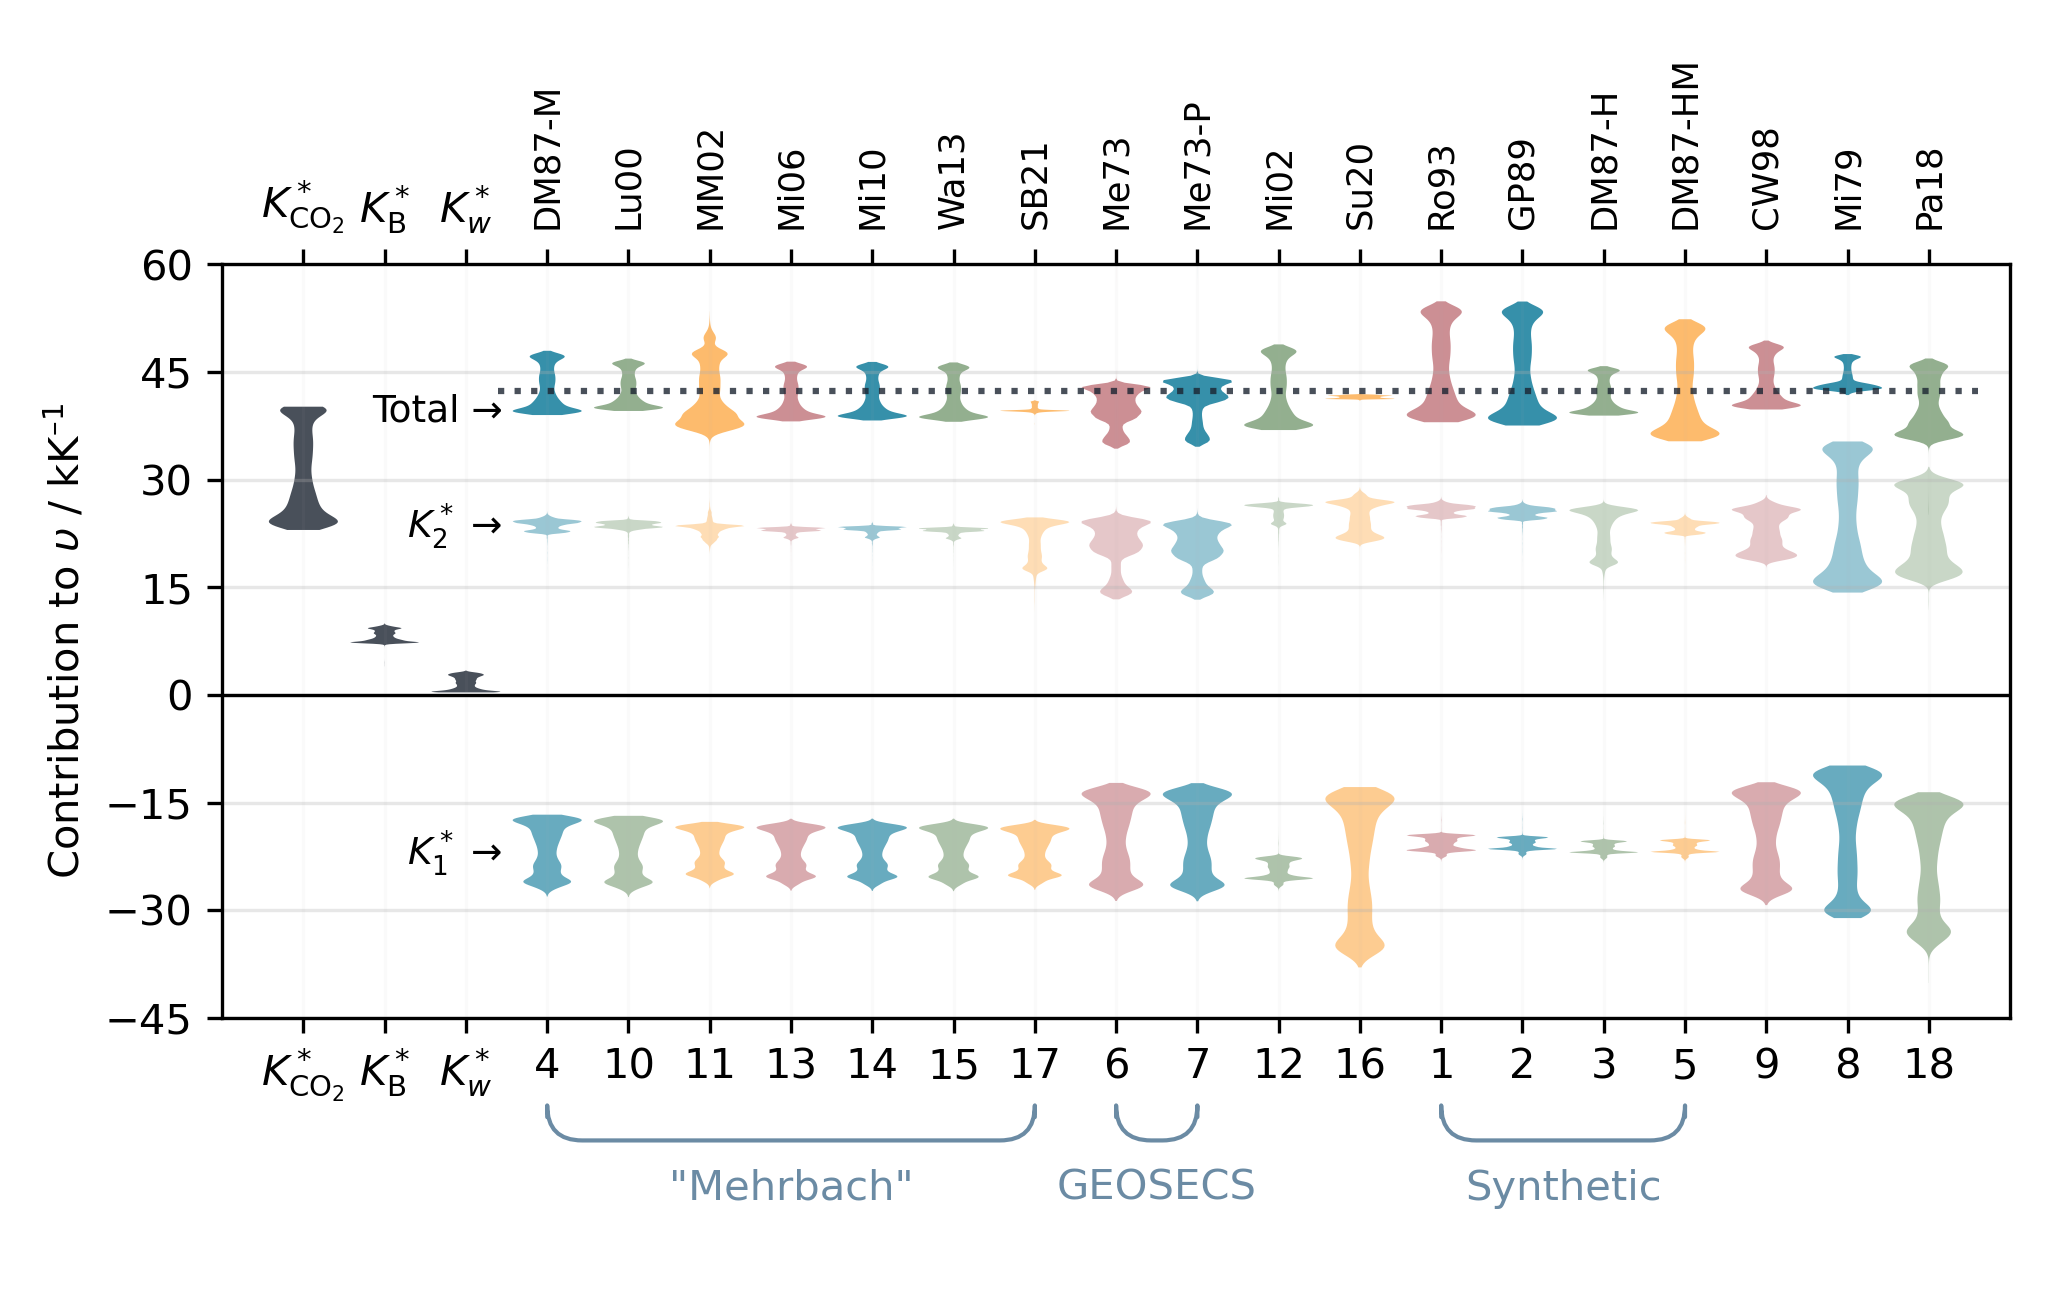
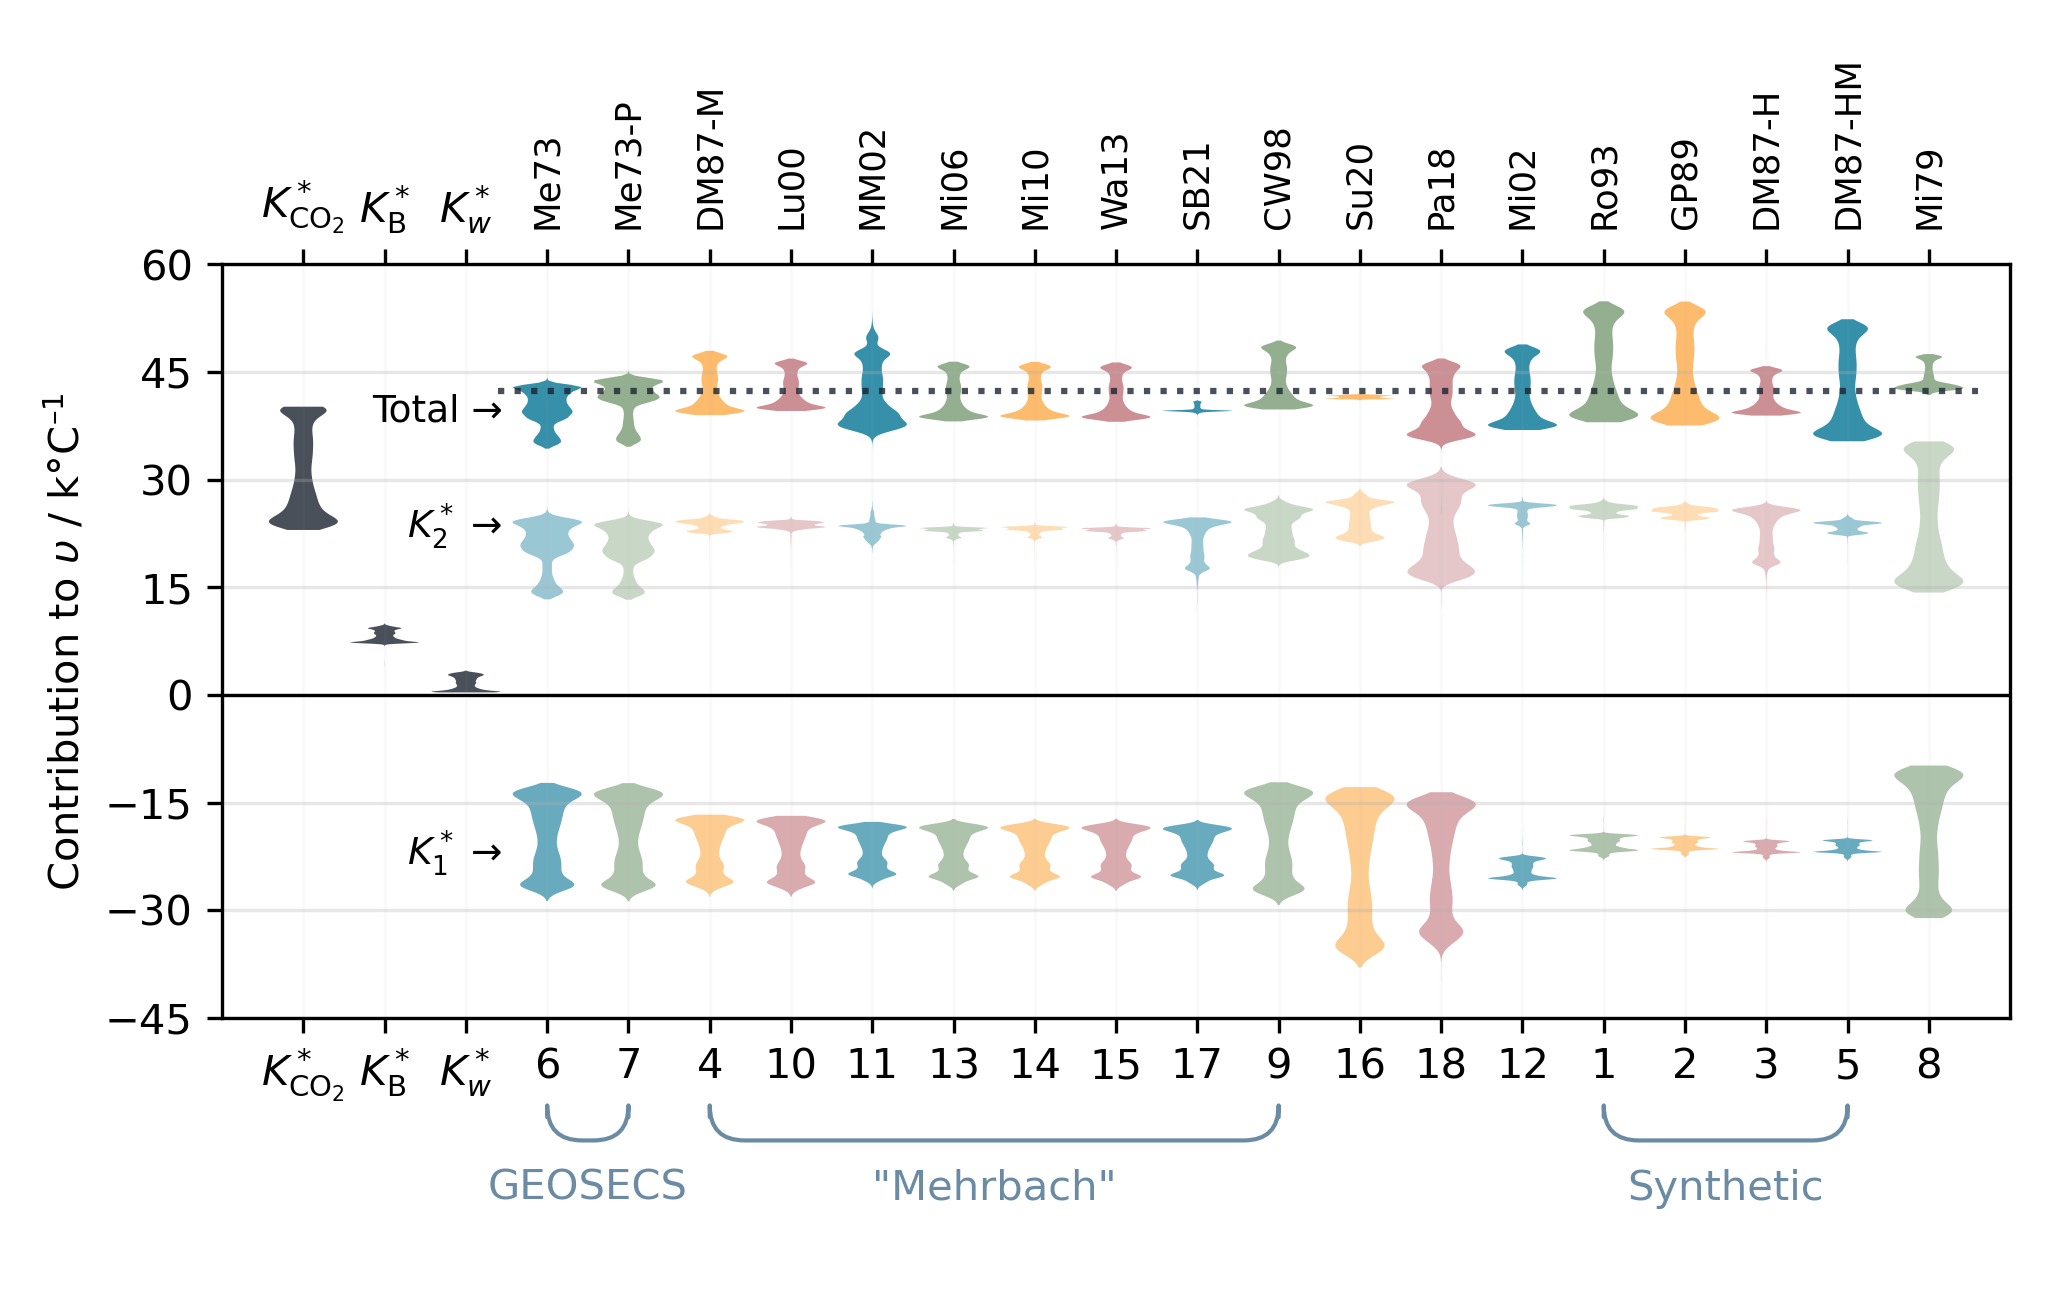
Updates Mon 8 Jan

diff --git a/f07_violins_soda.py b/f07_violins_soda.py
@@ -80,7 +80,7 @@ for i, var in enumerate(fvars):
     )
     parts["bodies"][0].set_facecolor("xkcd:dark")
     parts["bodies"][0].set_alpha(0.8)
-okc_order = [4, 10, 11, 13, 14, 15, 17, 6, 7, 12, 16, 1, 2, 3, 5, 9, 8, 18]
+okc_order = [6, 7, 4, 10, 11, 13, 14, 15, 17, 9, 16, 18, 12, 1, 2, 3, 5, 8]
 okc_codes = {
     1: "Ro93",
     2: "GP89",
@@ -154,7 +154,7 @@ for i, fxl in enumerate(fxlabels):
 for o in okc_order:
     fxlabels.append(str(o))
 ax.set_xticklabels(fxlabels)
-ax.set_ylabel("Contribution to $υ$ / kK$^{–1}$")
+ax.set_ylabel("Contribution to $υ$ / k°C$^{–1}$")
 ax.tick_params(top=True, labeltop=False)
 brackets = dict(
     xycoords="data",
@@ -167,11 +167,11 @@ brackets = dict(
     annotation_clip=False,
 )
 anx = -60
-ax.annotate("", xy=(3, anx), xytext=(9, anx), **brackets)
-ax.text(6, anx - 6, '"Mehrbach"', ha="center", va="top", c="xkcd:grey blue")
-ax.annotate("", xy=(10, anx), xytext=(11, anx), **brackets)
-ax.text(10.5, anx - 6, "GEOSECS", ha="center", va="top", c="xkcd:grey blue")
-ax.annotate("", xy=(14, anx), xytext=(17, anx), **brackets)
-ax.text(15.5, anx - 6, "Synthetic", ha="center", va="top", c="xkcd:grey blue")
+ax.annotate("", xy=(5, anx), xytext=(12, anx), **brackets)
+ax.text(8.5, anx - 6, '"Mehrbach"', ha="center", va="top", c="xkcd:grey blue")
+ax.annotate("", xy=(3, anx), xytext=(4, anx), **brackets)
+ax.text(3.5, anx - 6, "GEOSECS", ha="center", va="top", c="xkcd:grey blue")
+ax.annotate("", xy=(16, anx), xytext=(19, anx), **brackets)
+ax.text(17.5, anx - 6, "Synthetic", ha="center", va="top", c="xkcd:grey blue")
 fig.tight_layout()
 fig.savefig("figures/f07_violins_soda.png")

diff --git a/f13_geosecs.py b/f13_geosecs.py
@@ -1,0 +1,46 @@
+from sys import path
+
+pyco2path = "/Users/matthew/github/PyCO2SYS"
+if pyco2path not in path:
+    path.append(pyco2path)
+
+import PyCO2SYS as pyco2
+from matplotlib import pyplot as plt
+from cartopy import crs as ccrs, feature as cfeature
+import xarray as xr
+import numpy as np
+
+
+# Import OceanSODA
+soda = xr.open_dataset(
+    "/Users/matthew/Documents/data/OceanSODA/0220059/5.5/data/0-data/"
+    + "OceanSODA_ETHZ-v2023.OCADS.01_1982-2022.nc"
+)
+
+# %% Calculate surface field of dlnpCO2/dT
+results_06 = pyco2.sys(
+    par1=soda.talk.mean("time").data,
+    par2=soda.dic.mean("time").data,
+    par1_type=1,
+    par2_type=2,
+    temperature=soda.temperature.mean("time").data,
+    salinity=soda.salinity.mean("time").data,
+    opt_k_carbonic=6,
+    opt_total_borate=1,
+)
+results_10 = pyco2.sys(
+    par1=soda.talk.mean("time").data,
+    par2=soda.dic.mean("time").data,
+    par1_type=1,
+    par2_type=2,
+    temperature=soda.temperature.mean("time").data,
+    salinity=soda.salinity.mean("time").data,
+    opt_k_carbonic=10,
+    opt_total_borate=1,
+)
+soda["dlnpCO2_dT_06"] = (("lat", "lon"), results_06["dlnpCO2_dT"] * 1e3)
+soda["dlnpCO2_dT_10"] = (("lat", "lon"), results_10["dlnpCO2_dT"] * 1e3)
+fig, ax = plt.subplots(dpi=300)
+soda.dlnpCO2_dT_10.plot(vmin=35, vmax=45, ax=ax)
+fig, ax = plt.subplots(dpi=300)
+soda.dlnpCO2_dT_06.plot(vmin=35, vmax=45, ax=ax)
